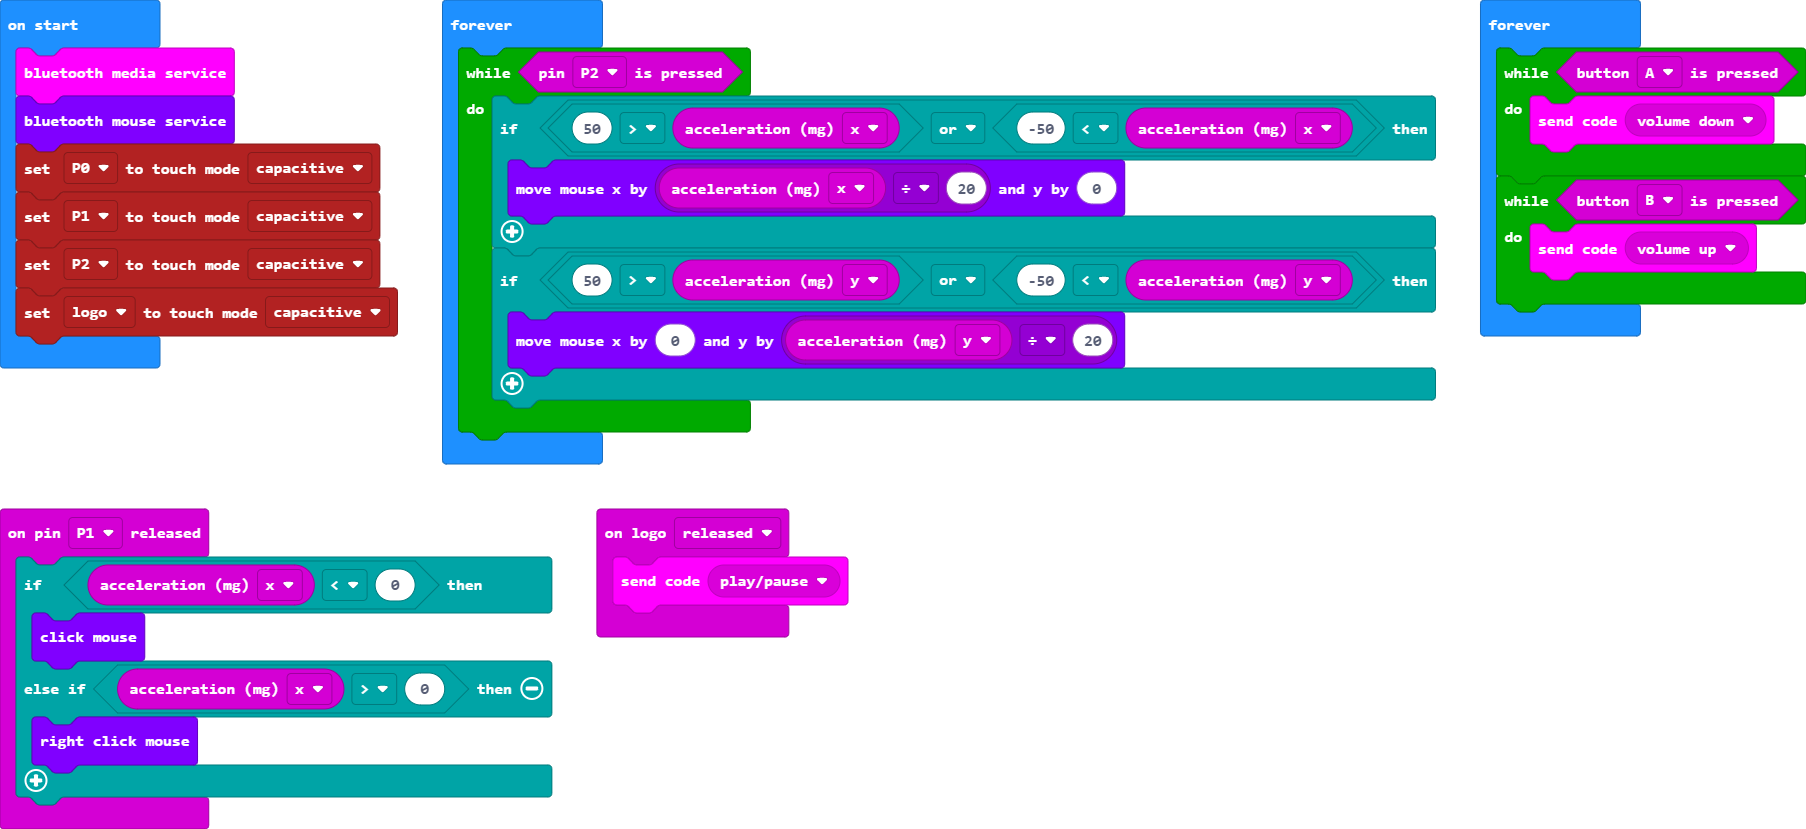
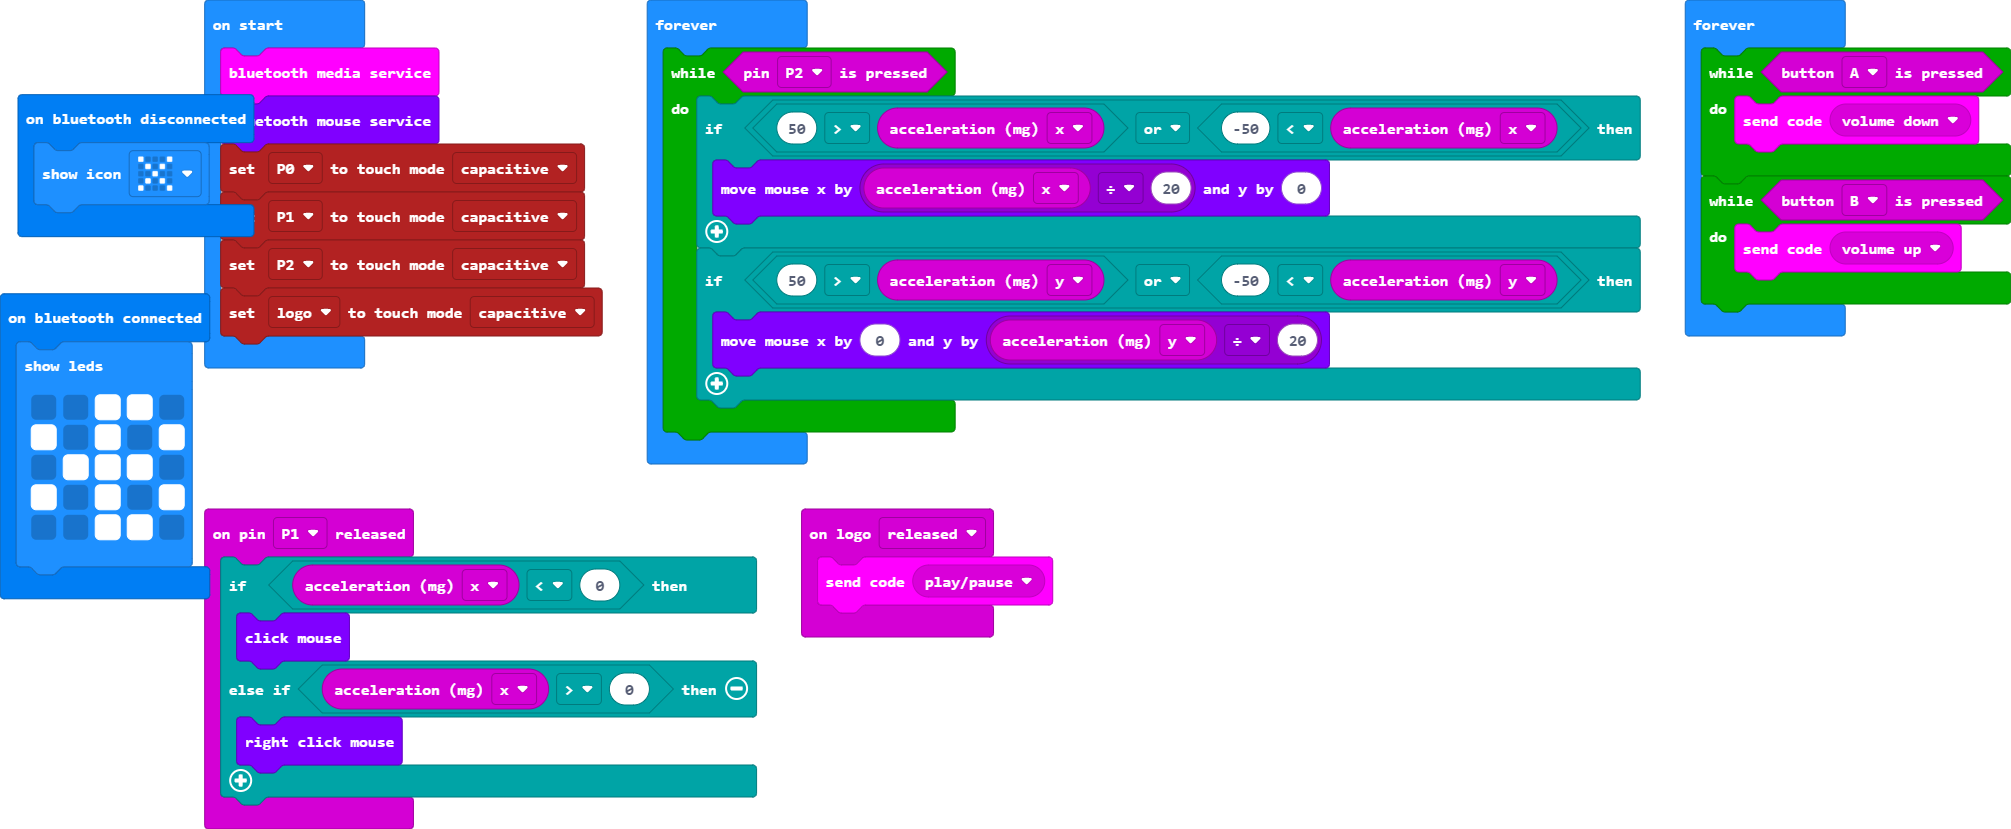
Update main.blocks, main.ts

diff --git a/main.ts b/main.ts
@@ -1,3 +1,15 @@
+bluetooth.onBluetoothConnected(function () {
+    basic.showLeds(`
+        . . # # .
+        # . # . #
+        . # # # .
+        # . # . #
+        . . # # .
+        `)
+})
+bluetooth.onBluetoothDisconnected(function () {
+    basic.showIcon(IconNames.No)
+})
 input.onPinReleased(TouchPin.P1, function () {
     if (input.acceleration(Dimension.X) < 0) {
         mouse.click()
